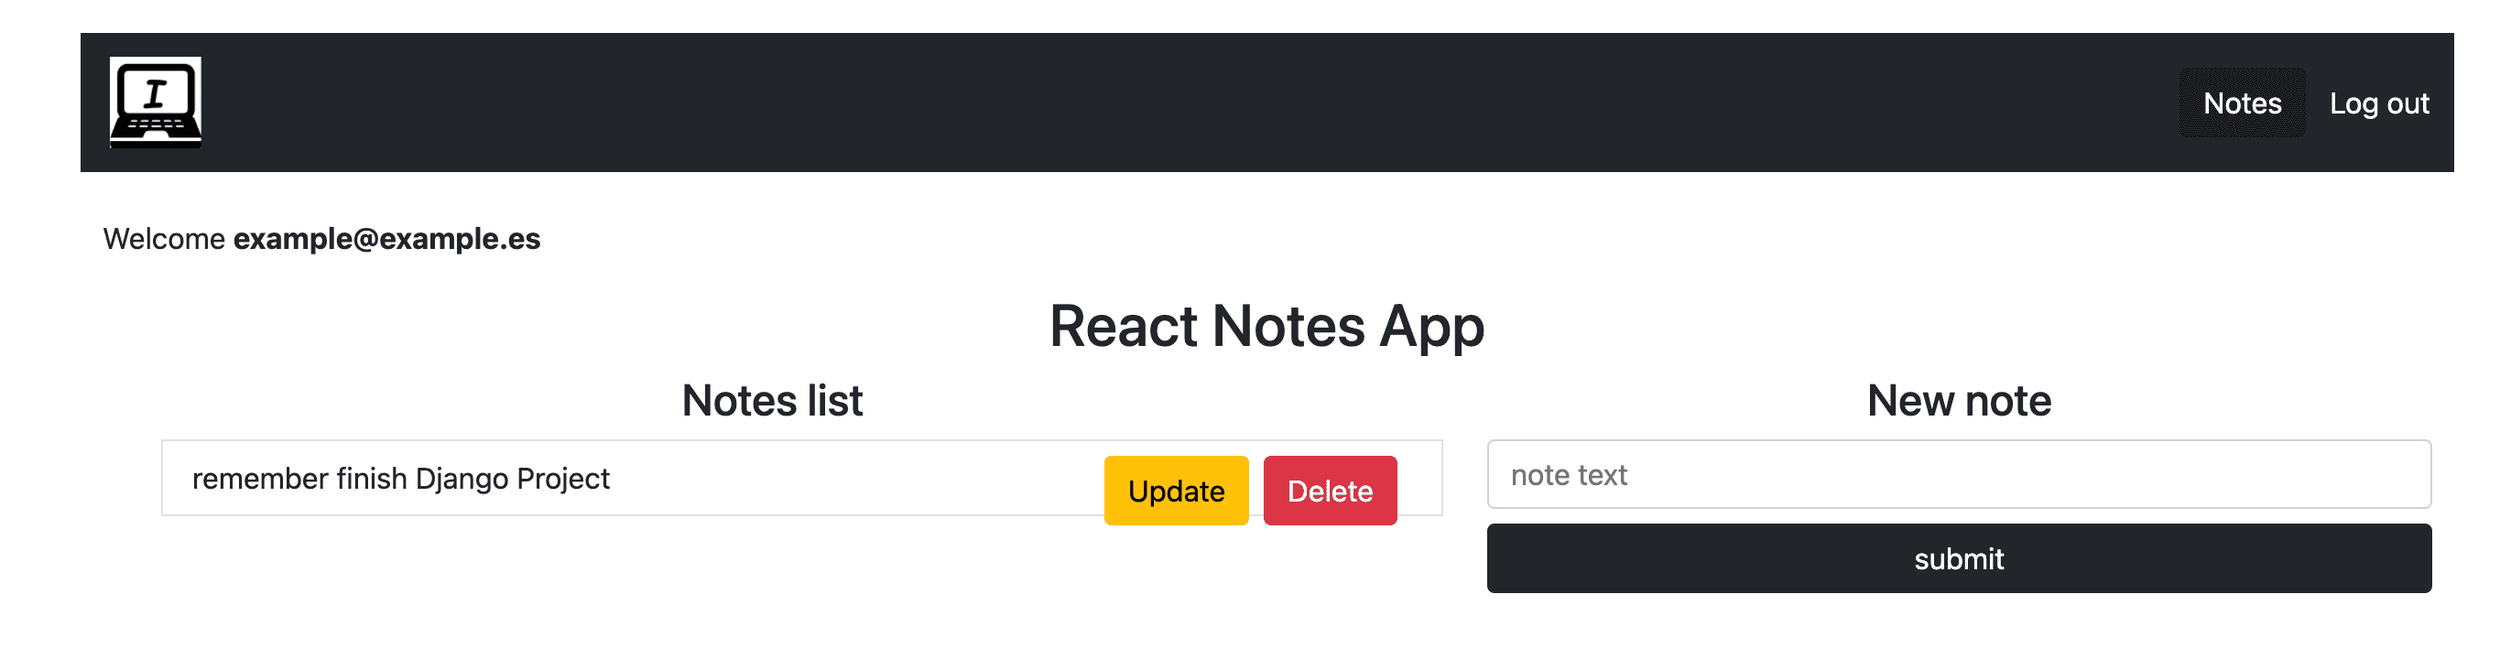
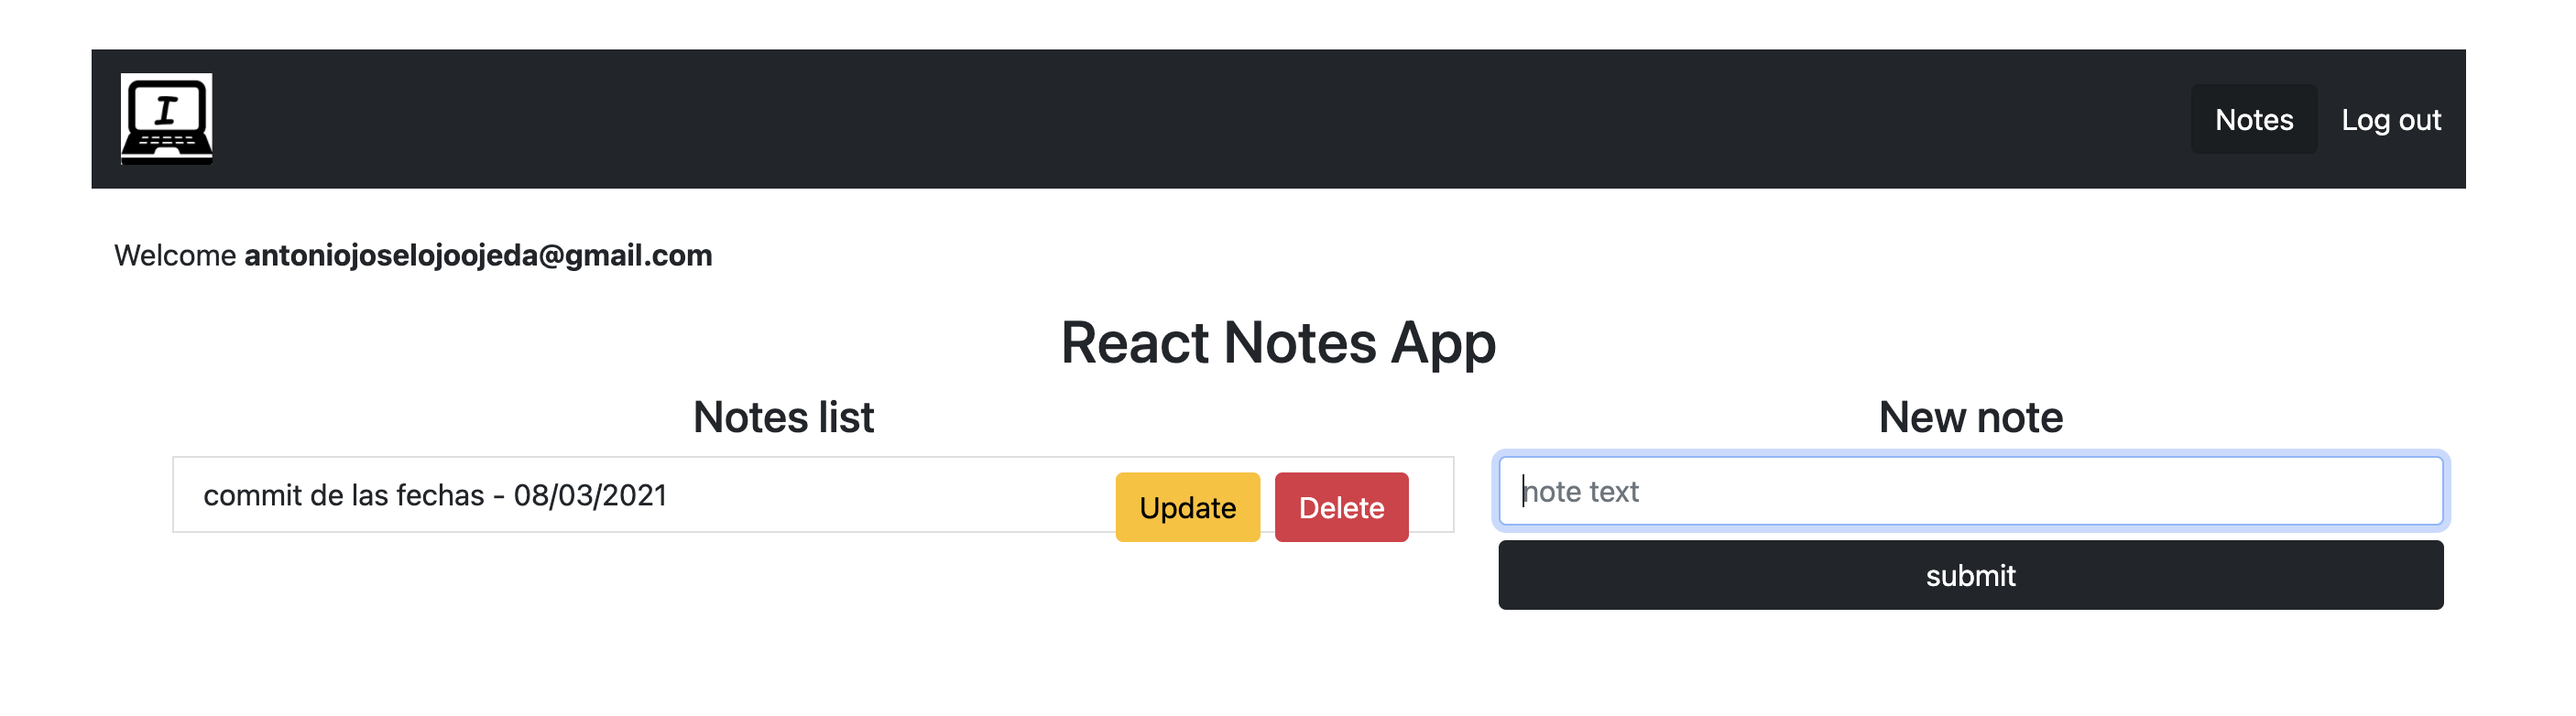
date

diff --git a/notes-app/src/conponents/NotesCrud.jsx b/notes-app/src/conponents/NotesCrud.jsx
@@ -1,6 +1,7 @@
 import { useEffect, useState } from 'react';
 import '../App.css';
 import {firebase} from '../firebase';
+import moment from 'moment';
 
 const NotesCrud = (props) => {
 
@@ -97,7 +98,8 @@ const NotesCrud = (props) => {
 
         const db = firebase.firestore();
         const data = await db.collection('notes').doc(id).update({
-          name: note
+          name: note,
+          date: Date.now()
         });
 
         const arrayUpdated = notes.map(
@@ -145,7 +147,7 @@ const NotesCrud = (props) => {
                 { //print list of notes
                   notes.map(item =>
                   <li className="list-group-item" key={item.id}>{/*the key is necessary to avoid warnings*/}
-                    <span>{item.name}</span>
+                    <span>{item.name + " - " + moment(item.date).format("DD/MM/YYYY")}</span>
                     {/*delete and update buttons*/}
                     <button className="btn btn-danger float-end mx-2" onClick={() => deleteNote(item.id)}>Delete</button> {/*on click delete a note by id*/}
                     <button className="btn btn-warning float-end" onClick={() => activateEditMode(item)}>Update</button>
